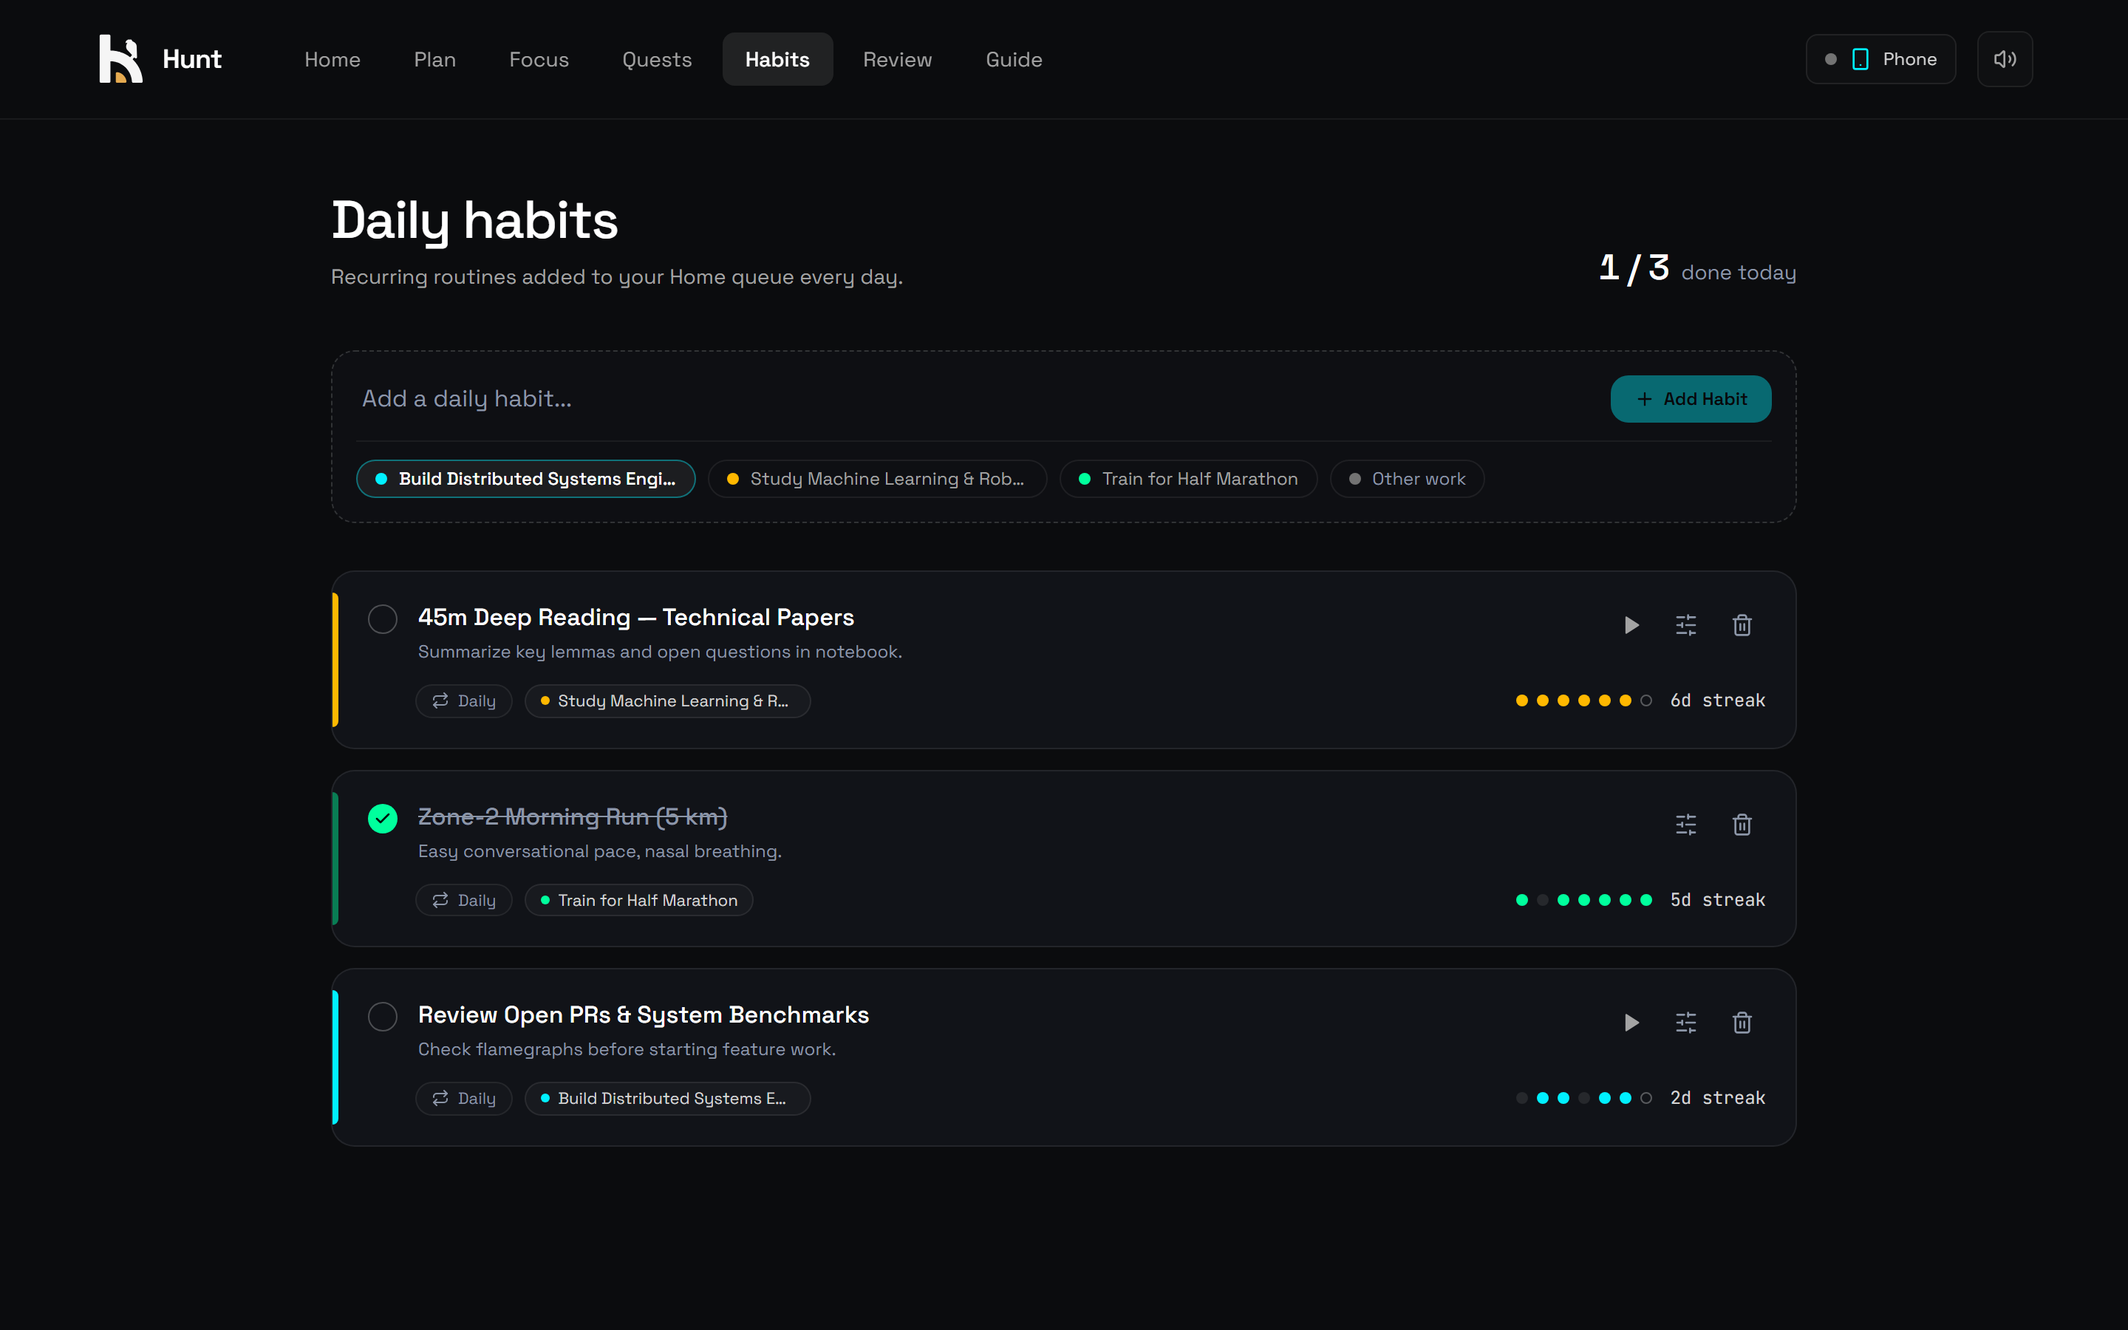
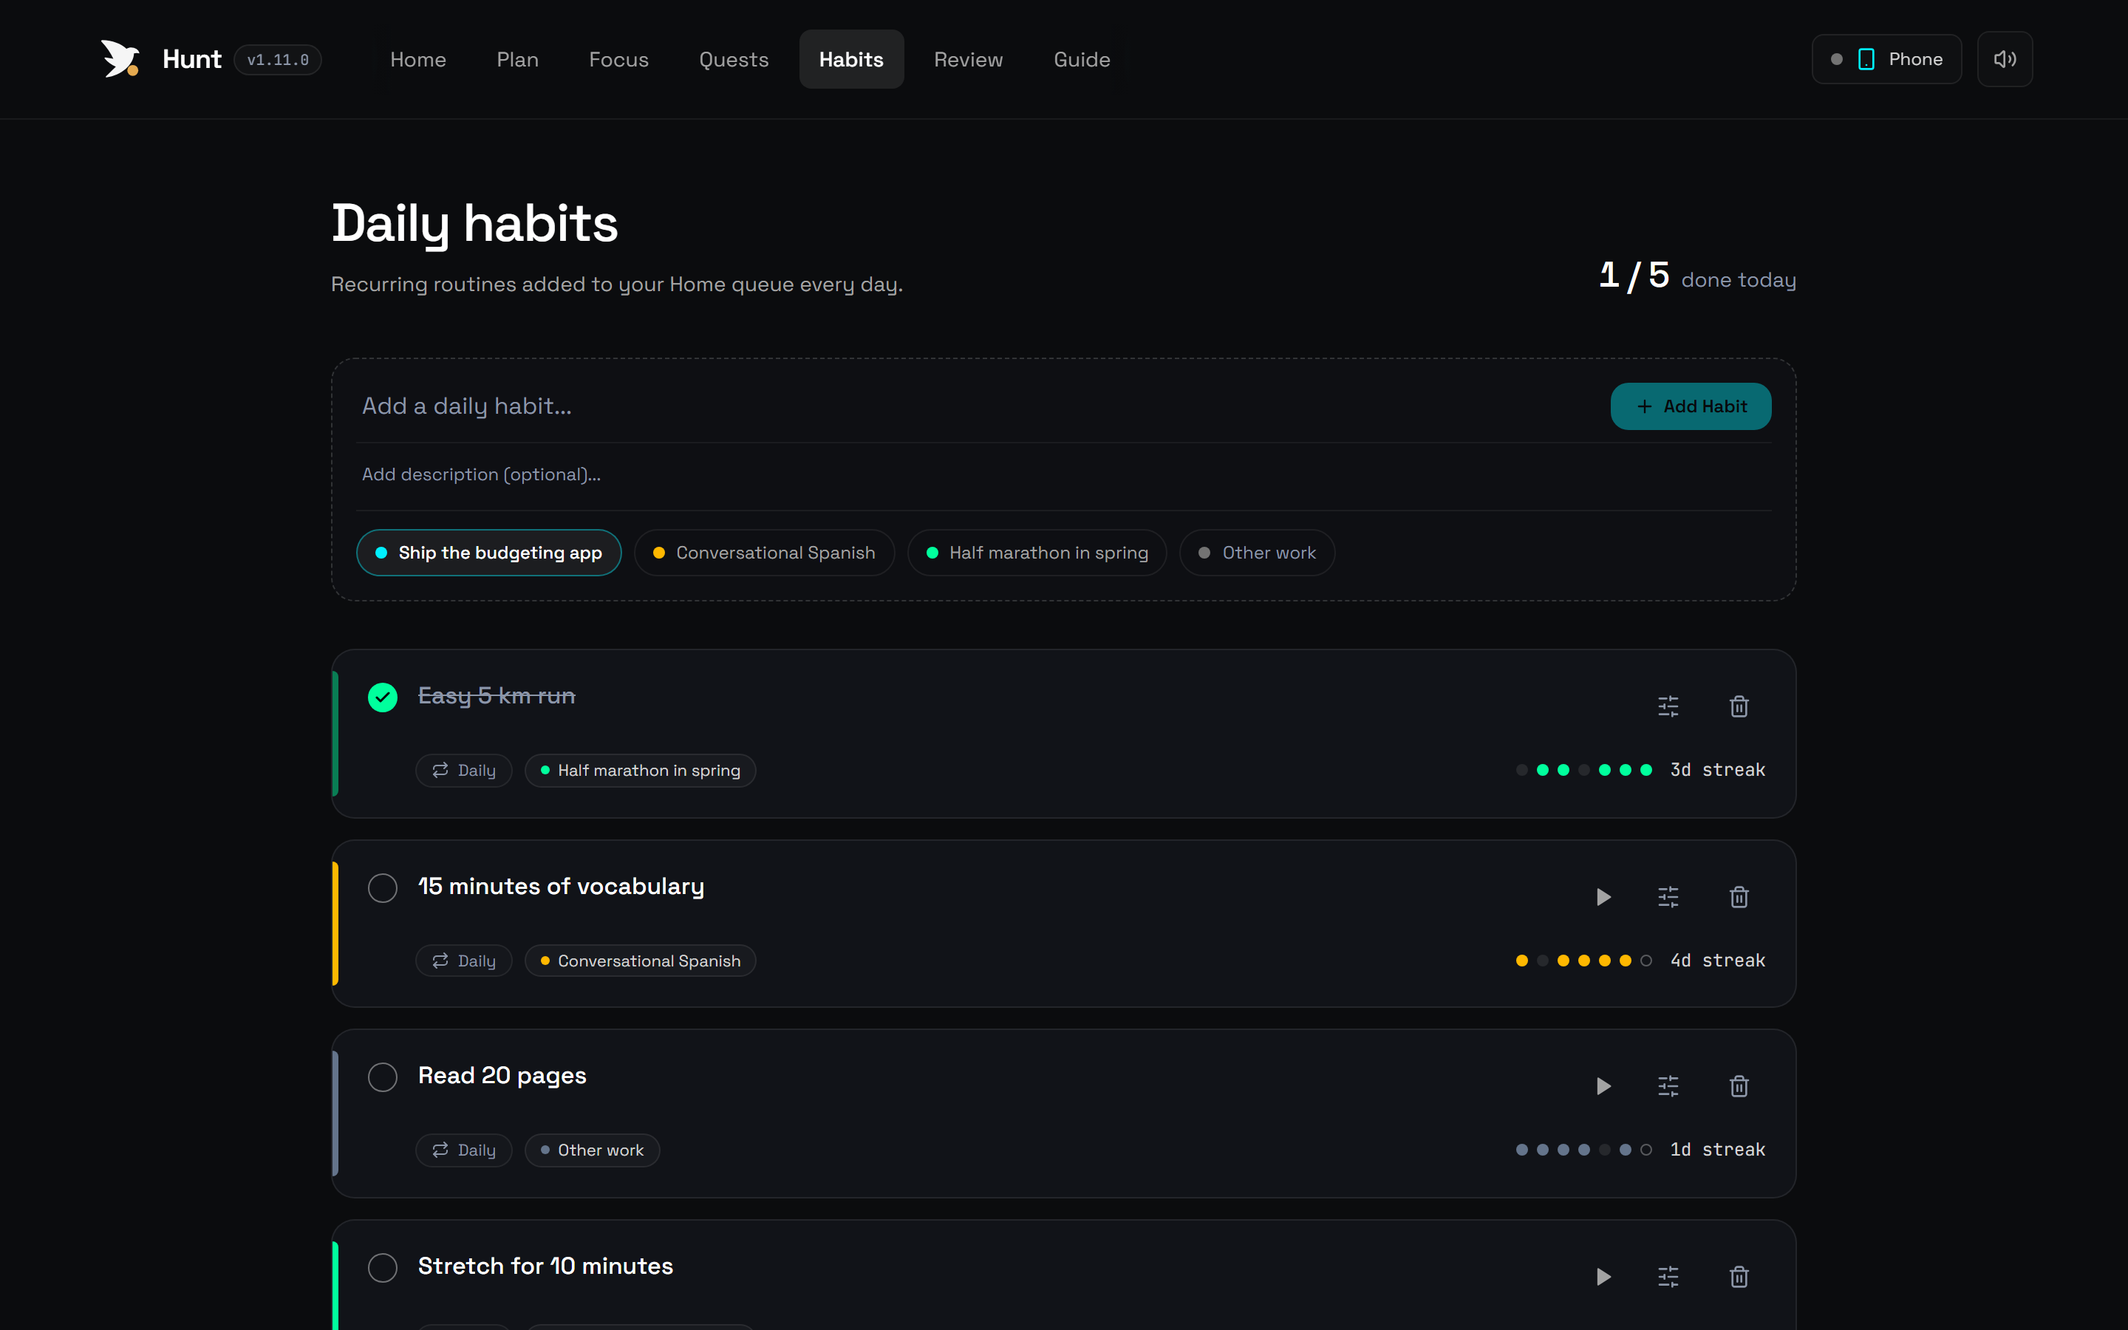
docs: retake README screenshots from the current build
The screenshots dated from v1.5. npm run screenshots
(playwright.screenshots.config.ts, scripts/screenshots/) now rebuilds
all seven from the current app. It uses a made-up persona (a budgeting
app, Spanish, a half marathon), a clock frozen at 15:20 UTC, and a local
stand-in for /api/sync so both apps show a synced state. It never
touches data/.

diff --git a/scripts/screenshots/demoData.ts b/scripts/screenshots/demoData.ts
@@ -1,0 +1,183 @@
+import type { Habit, Quest, QuestAccent, Task, TimeLog } from "../../src/lib/domainTypes";
+
+/**
+ * A made-up person's week for the README screenshots: a side project, a language and a race.
+ * Everything is relative to `now` (the frozen browser clock), with date keys in UTC to match the
+ * capture config's timezone. Nothing here comes from a real user's data.
+ */
+
+const MIN = 60_000;
+const HOUR = 60 * MIN;
+const DAY = 24 * HOUR;
+
+const dateKey = (ms: number) => new Date(ms).toISOString().slice(0, 10);
+
+export interface DemoData {
+  quests: Quest[];
+  tasks: Task[];
+  habits: Habit[];
+  timeLogs: TimeLog[];
+}
+
+export function buildDemoData(now: number): DemoData {
+  const today = dateKey(now);
+  const dayStart = Date.parse(`${today}T00:00:00Z`);
+  const created = now - 21 * DAY;
+
+  const quest = (
+    slotIndex: 0 | 1 | 2,
+    id: string,
+    code: string,
+    title: string,
+    description: string,
+    accentColor: QuestAccent,
+    targetWeeklyHours: number
+  ): Quest => ({ id, slotIndex, code, title, description, accentColor, targetWeeklyHours, archived: false, createdAt: created, updatedAt: created });
+
+  const quests: Quest[] = [
+    quest(0, "q-app", "APP", "Ship the budgeting app", "Get v1 into the app store before the end of the quarter.", "cyan", 10),
+    quest(1, "q-spanish", "ES", "Conversational Spanish", "Hold a 20-minute conversation by the summer trip.", "amber", 4),
+    quest(2, "q-race", "RUN", "Half marathon in spring", "Build up to 21 km with three runs a week.", "emerald", 5),
+  ];
+  const questById = new Map(quests.map((q) => [q.id, q]));
+
+  const task = (t: Partial<Task> & Pick<Task, "id" | "title" | "questId">): Task => ({
+    notes: "",
+    status: "queued",
+    rank: 1000,
+    accumulatedSeconds: 0,
+    scheduledDate: today,
+    createdAt: now - 2 * DAY,
+    updatedAt: now - 2 * DAY,
+    ...t,
+  });
+
+  const tasks: Task[] = [
+    task({ id: "t-sync", title: "Fix offline sync for shared budgets", questId: "q-app", rank: 1000, accumulatedSeconds: 50 * 60, notes: "Repro: edit on two phones while one is offline." }),
+    task({ id: "t-onboarding", title: "Design the onboarding screens", questId: "q-app", rank: 2000 }),
+    task({ id: "t-podcast", title: "Listen to one episode of Coffee Break Spanish", questId: "q-spanish", rank: 3000 }),
+    task({ id: "t-tax", title: "File the quarterly tax return", questId: null, rank: 4000 }),
+    task({ id: "t-store", title: "Write the App Store description", questId: "q-app", rank: 5000, scheduledDate: dateKey(now + DAY) }),
+    task({ id: "t-shoes", title: "Book a gait analysis for new running shoes", questId: "q-race", rank: 6000, scheduledDate: dateKey(now + 2 * DAY) }),
+    task({ id: "t-tests", title: "Add tests for the CSV importer", questId: "q-app", status: "completed", rank: 7000, accumulatedSeconds: 75 * 60, completedAt: dayStart + 11 * HOUR + 15 * MIN }),
+    task({ id: "t-verbs", title: "Review past-tense verb flashcards", questId: "q-spanish", status: "completed", rank: 8000, accumulatedSeconds: 30 * 60, completedAt: dayStart + 8 * HOUR + 40 * MIN }),
+  ];
+
+  const habit = (id: string, title: string, questId: string | null, rank: number): Habit => ({
+    id,
+    title,
+    notes: "",
+    questId,
+    rank,
+    createdAt: created,
+    updatedAt: created,
+  });
+  const habits: Habit[] = [
+    habit("h-run", "Easy 5 km run", "q-race", 1000),
+    habit("h-vocab", "15 minutes of vocabulary", "q-spanish", 2000),
+    habit("h-read", "Read 20 pages", null, 3000),
+    habit("h-stretch", "Stretch for 10 minutes", "q-race", 4000),
+    habit("h-plan", "Pick tomorrow's top task", null, 5000),
+  ];
+
+  // Completed habit rows for past days, so streaks and the habit grid have history.
+  // A few deliberate gaps keep it believable.
+  const missed = new Set(["h-run:3", "h-run:6", "h-vocab:5", "h-read:2", "h-read:9", "h-read:10", "h-stretch:1", "h-stretch:4", "h-plan:7"]);
+  for (const h of habits) {
+    for (let daysAgo = 13; daysAgo >= 1; daysAgo--) {
+      if (missed.has(`${h.id}:${daysAgo}`)) continue;
+      const day = dateKey(now - daysAgo * DAY);
+      const done = Date.parse(`${day}T07:30:00Z`) + h.rank * 1000;
+      tasks.push({
+        id: `habtsk-${day}-${h.id}`,
+        title: h.title,
+        notes: "",
+        questId: h.questId,
+        habitId: h.id,
+        status: "completed",
+        rank: h.rank,
+        accumulatedSeconds: 0,
+        scheduledDate: day,
+        createdAt: done,
+        updatedAt: done,
+        completedAt: done,
+      });
+    }
+  }
+  // Today: the run is already done.
+  tasks.push({
+    id: `habtsk-${today}-h-run`,
+    title: "Easy 5 km run",
+    notes: "",
+    questId: "q-race",
+    habitId: "h-run",
+    status: "completed",
+    rank: 1000,
+    accumulatedSeconds: 0,
+    scheduledDate: today,
+    createdAt: dayStart + 6 * HOUR,
+    updatedAt: dayStart + 7 * HOUR,
+    completedAt: dayStart + 7 * HOUR,
+  });
+
+  // Focus sessions over the last four weeks, plus today's done-list.
+  const titleOf = new Map(tasks.map((t) => [t.id, t.title]));
+  const log = (taskId: string, questId: string | null, start: number, minutes: number): TimeLog => {
+    const q = questId ? questById.get(questId) : undefined;
+    return {
+      id: `log-${start}-${taskId}`,
+      taskId,
+      taskTitleSnapshot: titleOf.get(taskId) ?? "Focus session",
+      questId,
+      questCodeSnapshot: q ? q.title : "Other",
+      accentColorSnapshot: q ? q.accentColor : "slate",
+      startTime: start,
+      endTime: start + minutes * MIN,
+      durationSeconds: minutes * 60,
+      dateKey: dateKey(start),
+    };
+  };
+
+  const timeLogs: TimeLog[] = [
+    log("t-verbs", "q-spanish", dayStart + 8 * HOUR + 10 * MIN, 30),
+    log("t-tests", "q-app", dayStart + 9 * HOUR + 30 * MIN, 45),
+    log("t-tests", "q-app", dayStart + 10 * HOUR + 30 * MIN, 30),
+    log("t-sync", "q-app", dayStart + 13 * HOUR, 50),
+  ];
+  // History: four weeks of finished work, one completed task per session, so Review, the heatmap
+  // and the done-lists have shape while today's open tasks keep small, honest counters.
+  const history: Array<{ questId: string | null; titles: string[]; hour: number; minutes: number; every: number }> = [
+    { questId: "q-app", hour: 9, minutes: 90, every: 1, titles: ["Set up crash reporting", "Sketch the categories screen", "Refactor the transactions list", "Write the CSV export", "Fix rounding in monthly totals", "Add dark mode to settings", "Review the database schema", "Wire up bill reminders"] },
+    { questId: "q-spanish", hour: 19, minutes: 30, every: 1, titles: ["Coffee Break Spanish episode", "Practise ordering at a café", "Write a short diary entry in Spanish", "Shadow a news clip in Spanish"] },
+    { questId: "q-race", hour: 7, minutes: 70, every: 3, titles: ["Long run", "Tempo intervals", "Hill repeats"] },
+    { questId: null, hour: 17, minutes: 35, every: 2, titles: ["Clear the inbox", "Pay the monthly bills", "Plan meals for the week"] },
+  ];
+  for (let daysAgo = 1; daysAgo <= 27; daysAgo++) {
+    const day = Date.parse(`${dateKey(now - daysAgo * DAY)}T00:00:00Z`);
+    history.forEach((h, i) => {
+      if ((daysAgo + i) % h.every !== 0 || (daysAgo * 5 + i) % 7 === 0) return;
+      const minutes = Math.max(20, h.minutes - ((daysAgo * 7 + i * 11) % 30));
+      const start = day + h.hour * HOUR + ((daysAgo * 13) % 40) * MIN;
+      const id = `t-done-${daysAgo}-${i}`;
+      const title = h.titles[(daysAgo + i) % h.titles.length];
+      tasks.push({
+        id,
+        title,
+        notes: "",
+        questId: h.questId,
+        status: "completed",
+        rank: 9000 + daysAgo * 10 + i,
+        accumulatedSeconds: minutes * 60,
+        scheduledDate: dateKey(start),
+        createdAt: start - DAY,
+        updatedAt: start + minutes * MIN,
+        completedAt: start + minutes * MIN,
+      });
+      titleOf.set(id, title);
+      timeLogs.push(log(id, h.questId, start, minutes));
+    });
+  }
+  timeLogs.sort((a, b) => b.startTime - a.startTime);
+
+  return { quests, tasks, habits, timeLogs };
+}

diff --git a/scripts/screenshots/capture.spec.ts b/scripts/screenshots/capture.spec.ts
@@ -1,0 +1,154 @@
+import path from "path";
+import { expect, test, type Page } from "@playwright/test";
+import { buildDemoData, type DemoData } from "./demoData";
+
+/**
+ * Regenerates docs/screenshots/*.png from the current build with made-up demo data:
+ * `npm run screenshots`. The browser clock is frozen at 15:20 UTC today so the timeline,
+ * streaks and Review windows look the same on every run.
+ */
+
+const OUT = path.resolve(__dirname, "..", "..", "docs", "screenshots");
+const DESKTOP_DB_NAME = "JourneyCommandDB"; // src/lib/db.ts
+const DESKTOP_FOCUS_KEY = "journey-hud-command-store"; // zustand persist name in useCommandStore.ts
+const PHONE_STATE_KEY = "hunt-mobile-standalone-v1"; // STORAGE_KEY in public/hunt-mobile.html
+
+const today = new Date().toISOString().slice(0, 10);
+const NOW = Date.parse(`${today}T15:20:00Z`);
+const FOCUS_STARTED = NOW - 24 * 60_000 - 13_000;
+
+/** Answers /api/sync like a healthy laptop: the posted state comes back unchanged. */
+async function fakeHealthySync(page: Page, data: DemoData): Promise<void> {
+  await page.route("**/api/sync**", async (route) => {
+    const req = route.request();
+    const posted = req.method() === "POST" ? (req.postDataJSON() as Record<string, unknown>) : null;
+    await route.fulfill({
+      status: 200,
+      contentType: "application/json",
+      body: JSON.stringify({
+        payload: posted ?? { ...data, deletedQuestIds: [], deletedTaskIds: [], deletedLogIds: [], deletedHabitIds: [], activeFocus: { activeTaskId: null, isRunning: false, sessionStartedAt: null, updatedAt: 0 }, lastSyncedAt: NOW },
+        lanUrls: ["http://192.168.1.20:3000"],
+        peers: { phone: { lastSeenAt: NOW - 4 * 60_000 } },
+      }),
+    });
+  });
+}
+
+async function settle(page: Page): Promise<void> {
+  await page.evaluate(
+    () => new Promise<void>((resolve) => void document.fonts.ready.then(() => requestAnimationFrame(() => requestAnimationFrame(() => resolve()))))
+  );
+  await page.waitForTimeout(400);
+}
+
+async function shoot(page: Page, name: string): Promise<void> {
+  await settle(page);
+  await page.screenshot({ path: path.join(OUT, `${name}.png`) });
+}
+
+// ---------------------------------------------------------------------------
+// Desktop app
+// ---------------------------------------------------------------------------
+
+async function openDesktop(page: Page, data: DemoData, focusTaskId?: string): Promise<void> {
+  await page.clock.setFixedTime(NOW);
+  await fakeHealthySync(page, data);
+  await page.goto("/");
+  await expect(page.locator("header nav")).toBeVisible({ timeout: 30_000 });
+  const tasks = data.tasks.map((t) => (t.id === focusTaskId ? { ...t, status: "active" as const } : t));
+  await page.evaluate(
+    async ({ dbName, rows, focus }) => {
+      const db = await new Promise<IDBDatabase>((resolve, reject) => {
+        const req = indexedDB.open(dbName);
+        req.onsuccess = () => resolve(req.result);
+        req.onerror = () => reject(req.error);
+      });
+      const stores = ["quests", "tasks", "habits", "timeLogs"];
+      await new Promise<void>((resolve, reject) => {
+        const tx = db.transaction(stores, "readwrite");
+        for (const name of stores) {
+          const store = tx.objectStore(name);
+          store.clear();
+          for (const row of rows[name as keyof typeof rows]) store.put(row);
+        }
+        tx.oncomplete = () => resolve();
+        tx.onerror = () => reject(tx.error);
+      });
+      db.close();
+      if (focus) localStorage.setItem(focus.key, JSON.stringify({ state: focus.state, version: 0 }));
+      else localStorage.removeItem("journey-hud-command-store");
+    },
+    {
+      dbName: DESKTOP_DB_NAME,
+      rows: { ...data, tasks },
+      focus: focusTaskId
+        ? { key: DESKTOP_FOCUS_KEY, state: { activeTaskId: focusTaskId, isRunning: true, sessionStartedAt: FOCUS_STARTED, focusUpdatedAt: FOCUS_STARTED } }
+        : null,
+    }
+  );
+  await page.reload();
+  await expect(page.locator("header nav")).toBeVisible({ timeout: 30_000 });
+}
+
+async function desktopView(page: Page, name: string): Promise<void> {
+  await page.locator("header nav button", { hasText: new RegExp(`^${name}$`) }).click();
+}
+
+test.describe("desktop", () => {
+  test.use({ viewport: { width: 1440, height: 900 }, deviceScaleFactor: 2, timezoneId: "UTC", locale: "en-US" });
+
+  test("home, habits, review", async ({ page }) => {
+    const data = buildDemoData(NOW);
+    await openDesktop(page, data);
+    await expect(page.getByText("Fix offline sync for shared budgets").first()).toBeVisible();
+    await shoot(page, "desktop-home");
+    await desktopView(page, "Habits");
+    await expect(page.getByText("15 minutes of vocabulary").first()).toBeVisible();
+    await shoot(page, "desktop-habits");
+    await desktopView(page, "Review");
+    await expect(page.locator('button[aria-haspopup="listbox"]')).toBeVisible();
+    await shoot(page, "desktop-review");
+  });
+
+  test("focus", async ({ page }) => {
+    const data = buildDemoData(NOW);
+    await openDesktop(page, data, "t-sync");
+    await desktopView(page, "Focus");
+    await expect(page.getByTestId("focus-timer")).toBeVisible();
+    await shoot(page, "desktop-focus");
+  });
+});
+
+// ---------------------------------------------------------------------------
+// Phone app
+// ---------------------------------------------------------------------------
+
+test.describe("phone", () => {
+  test.use({ viewport: { width: 412, height: 915 }, deviceScaleFactor: 3, isMobile: true, hasTouch: true, timezoneId: "UTC", locale: "en-US" });
+
+  test("today, habits, review", async ({ page }) => {
+    const data = buildDemoData(NOW);
+    const state = {
+      ...data,
+      deletedQuestIds: [],
+      deletedTaskIds: [],
+      deletedLogIds: [],
+      deletedHabitIds: [],
+      activeFocus: { activeTaskId: null, isRunning: false, sessionStartedAt: null, updatedAt: 0 },
+      lastSyncedAt: NOW - 60_000,
+    };
+    await page.clock.setFixedTime(NOW);
+    await fakeHealthySync(page, data);
+    await page.addInitScript(([key, value]) => window.localStorage.setItem(key, value), [PHONE_STATE_KEY, JSON.stringify(state)] as const);
+    await page.goto("/hunt-mobile.html");
+    await expect(page.locator("#bottomNav")).toBeAttached();
+    await expect(page.getByText("Fix offline sync for shared budgets").first()).toBeVisible();
+    await shoot(page, "mobile-today");
+    await page.locator("#nav-habits").click();
+    await expect(page.locator("body")).toHaveAttribute("data-view", "habits");
+    await shoot(page, "mobile-habits");
+    await page.locator("#reviewBtn").click();
+    await expect(page.locator("body")).toHaveAttribute("data-view", "telemetry");
+    await shoot(page, "mobile-review");
+  });
+});

diff --git a/playwright.screenshots.config.ts b/playwright.screenshots.config.ts
@@ -1,0 +1,35 @@
+import os from "os";
+import path from "path";
+import { defineConfig, devices } from "@playwright/test";
+
+/**
+ * README screenshots: `npm run screenshots` rewrites docs/screenshots/*.png from the
+ * current build with demo data (scripts/screenshots/). Uses the same isolated build
+ * folder and throwaway data dir as the geometry suite, so it never touches data/.
+ */
+const PORT = 3100;
+
+export default defineConfig({
+  testDir: "scripts/screenshots",
+  workers: 1,
+  reporter: "list",
+  timeout: 120_000,
+  use: {
+    ...devices["Desktop Chrome"],
+    baseURL: `http://localhost:${PORT}`,
+    reducedMotion: "reduce",
+  },
+  webServer: {
+    command: `npm run build && npx next start -p ${PORT}`,
+    url: `http://localhost:${PORT}/hunt-mobile.html`,
+    reuseExistingServer: true,
+    timeout: 300_000,
+    stdout: "ignore",
+    stderr: "pipe",
+    env: {
+      HUNT_DIST_DIR: ".next/geometry",
+      HUNT_DATA_DIR: path.join(os.tmpdir(), "hunt-screenshot-data"),
+      NEXT_TELEMETRY_DISABLED: "1",
+    },
+  },
+});

diff --git a/vitest.config.ts b/vitest.config.ts
@@ -9,8 +9,8 @@ export default defineConfig({
     environment: "jsdom",
     globals: true,
     setupFiles: ["./src/__tests__/setup.ts"],
-    // e2e/ holds the Playwright geometry suite (npm run test:geometry), not vitest tests.
-    exclude: [...configDefaults.exclude, "e2e/**", ".claude/**"],
+    // Playwright suites, not vitest tests: e2e/ (npm run test:geometry) and scripts/screenshots/ (npm run screenshots).
+    exclude: [...configDefaults.exclude, "e2e/**", "scripts/screenshots/**", ".claude/**"],
   },
   resolve: {
     alias: {

diff --git a/README.md b/README.md
@@ -210,6 +210,9 @@ publishes:
 - `Hunt-Mobile-<version>.apk`: signed Android app
 - `SHA256SUMS.txt`
 
+`npm run screenshots` regenerates `docs/screenshots/` from
+the current build, using made-up demo data.
+
 </details>
 
 ## License
